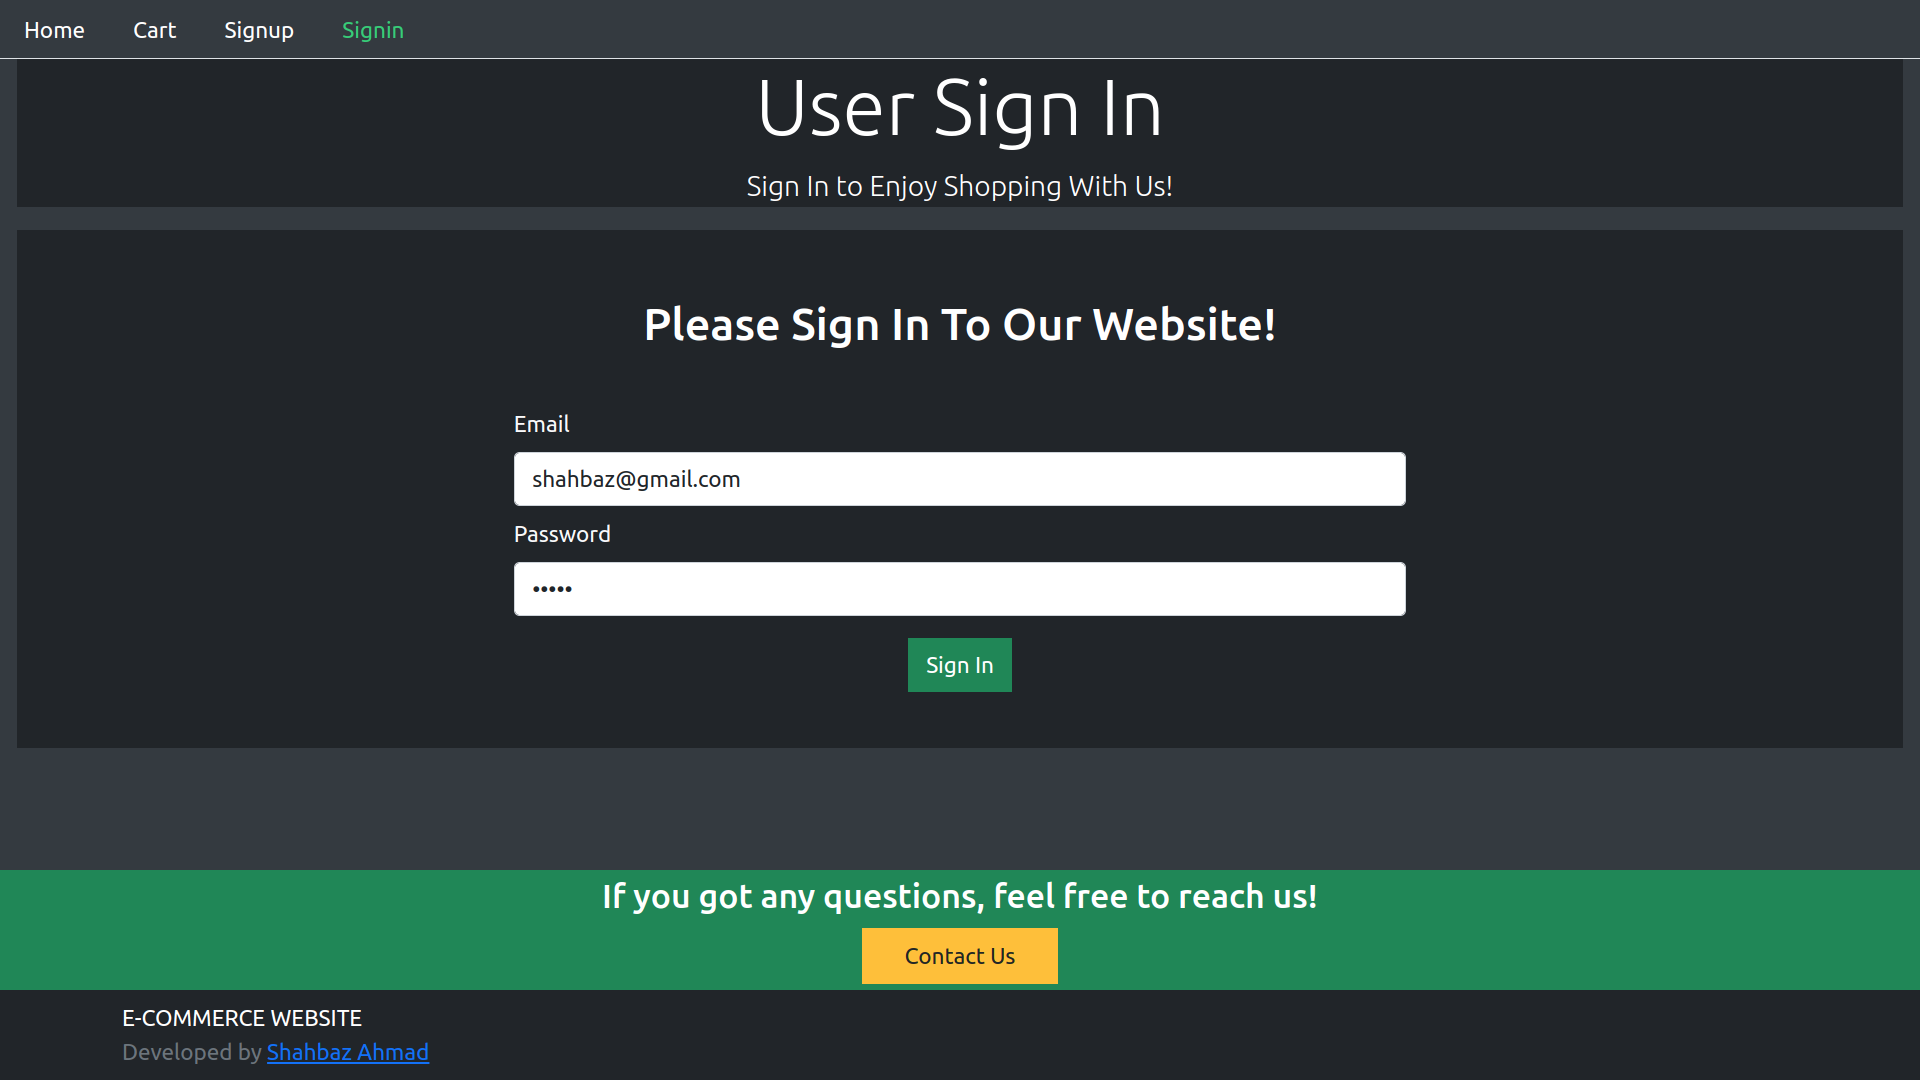
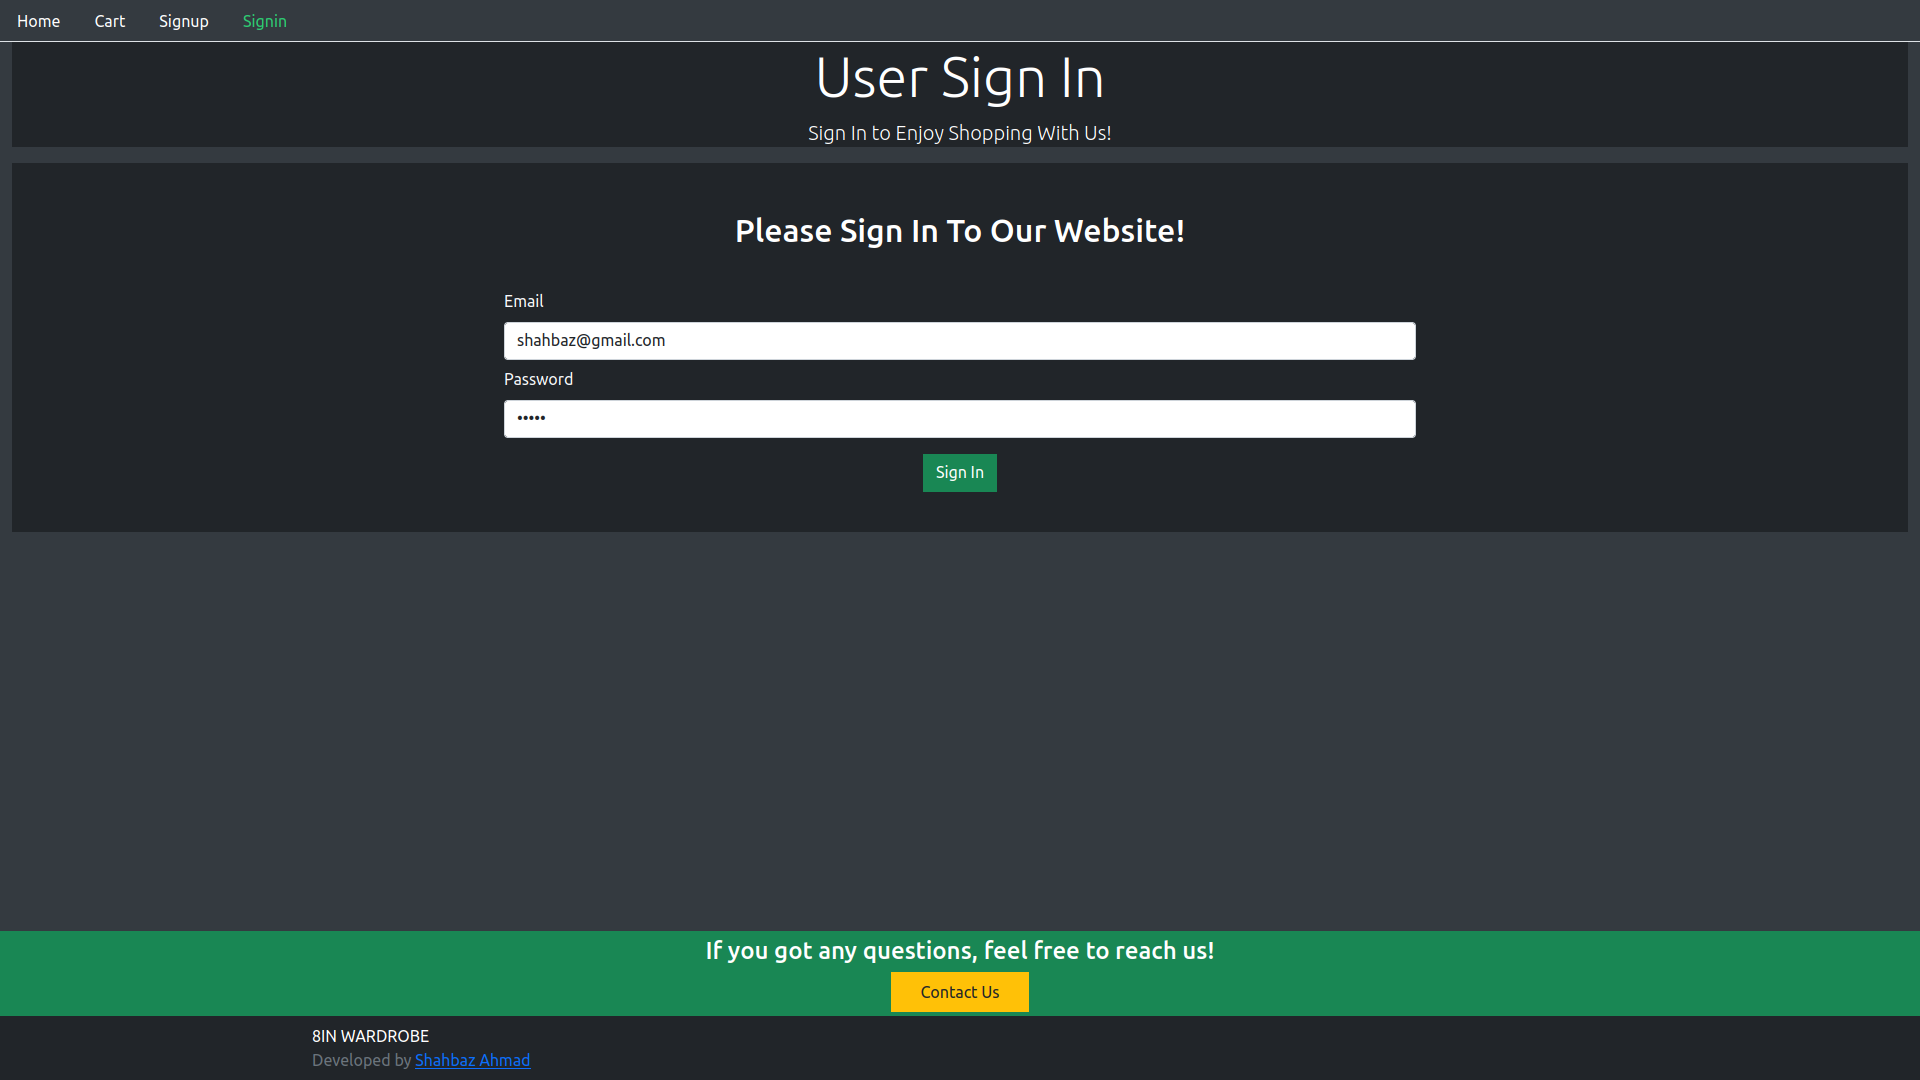
Minor UI Changes

diff --git a/projfrontend/src/core/Base.jsx b/projfrontend/src/core/Base.jsx
@@ -27,7 +27,7 @@ const Base = ({
             </div>
             <div className="container py-2">
                 <span className="text-muted">
-                    <span className="text-white">E-COMMERCE WEBSITE</span>
+                    <span className="text-white">8IN WARDROBE</span>
                     <br></br>
                     <span className="text-gray">Developed by <a href="https://www.linkedin.com/in/shahbazcse/">Shahbaz Ahmad</a></span>
                 </span>

diff --git a/projfrontend/src/core/Home.js b/projfrontend/src/core/Home.js
@@ -32,7 +32,7 @@ export default function Home() {
     
 
     return (
-        <Base title='E-commerce Website' description='Welcome to the store home page!'>
+        <Base title='8IN WARDROBE' description='Welcome to the store home page!'>
             <div className="row text-center">
                 <h1 className='text-white py-2'>All Available Products</h1>
                 <div className='row '>

diff --git a/projfrontend/src/core/Menu.jsx b/projfrontend/src/core/Menu.jsx
@@ -2,7 +2,6 @@ import React, {Fragment} from 'react';
 import { Link, withRouter } from 'react-router-dom';
 import { signout, isAuthenticated } from "../auth/helper";
 
-
 const currentTab = (history, path) => {
     if(history.location.pathname === path){
         return { color: "#2ecc72" };

diff --git a/projfrontend/src/styles.css b/projfrontend/src/styles.css
@@ -8,7 +8,6 @@ body {
   background: #343a40;
 }
 
-
 footer{
   position: fixed;
   bottom: 0px;
